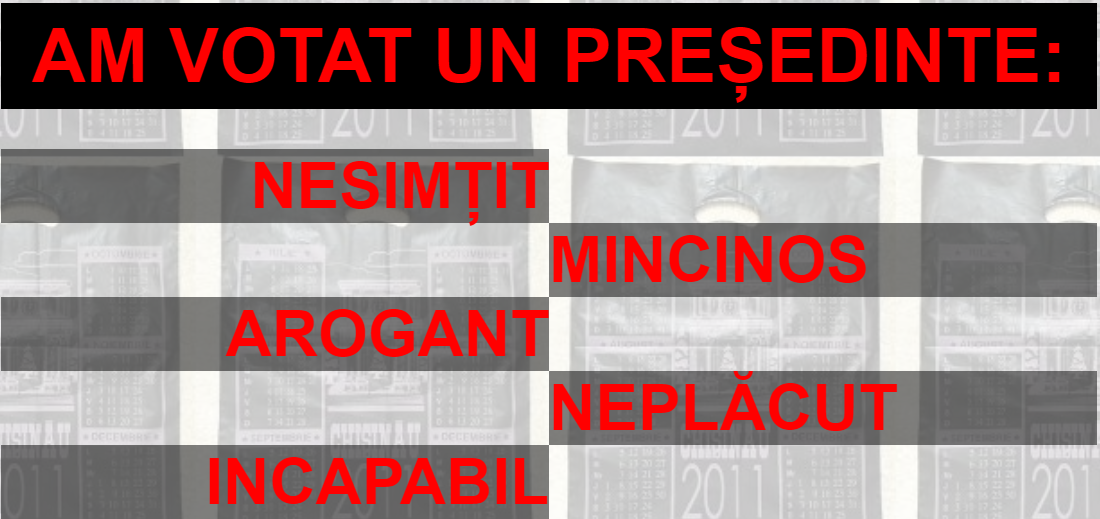
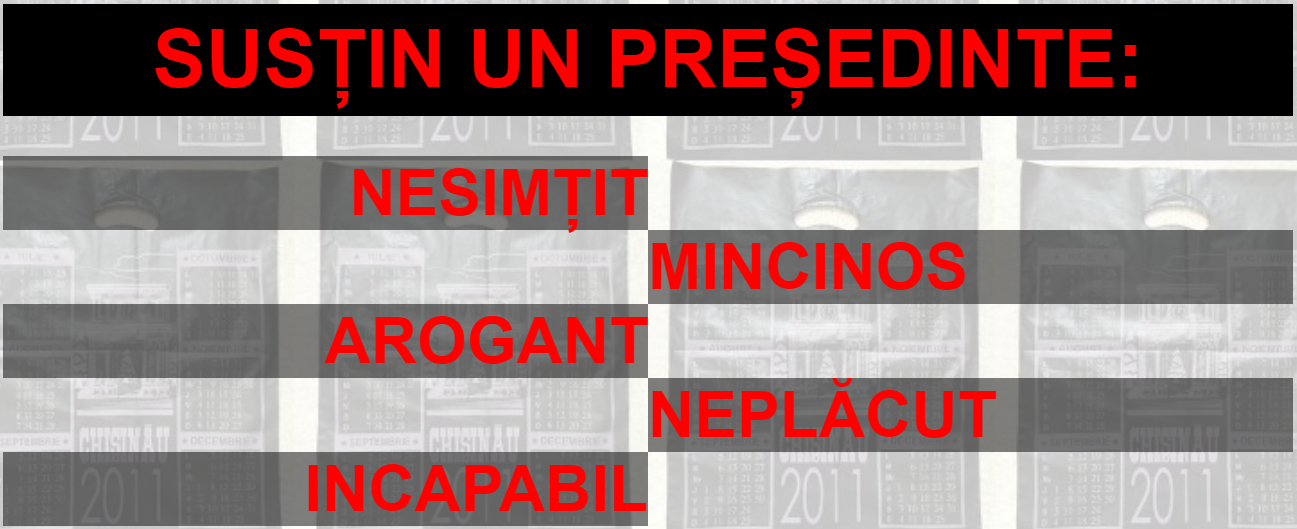
adjust title

diff --git a/index.html b/index.html
@@ -26,42 +26,6 @@
 <body>
     <div class="background">
         <div class="inner-overlay">
-            <div class="attributes one hide">
-                <span class="title one">Ați votat un președinte:</span>
-                <div style="display: flex;">
-                    <div class="left">
-                        <span class="calif-neg">NESIMȚIT</span>
-                        <br>
-                        <span class="calif-neg">AROGANT</span>
-                        <br>
-                        <span class="calif-neg">INCAPABIL</span>
-                    </div>
-                    <div class="right">
-                        <br>
-                        <span class="calif-neg">MINCINOS</span>
-                        <br>
-                        <span class="calif-neg">NEPLĂCUT</span>
-                    </div>
-                </div>
-            </div>
-            <div class="attributes two hide">
-                <span class="title two">Ați votat un președinte:</span>
-                <div style="display: flex;">
-                    <div class="left">
-                        <span class="calif-pos">CAPABIL</span>
-                        <br>
-                        <span class="calif-pos">INTEGRU</span>
-                        <br>
-                        <span class="calif-pos">ONEST</span>
-                    </div>
-                    <div class="right">
-                        <br>
-                        <span class="calif-pos">RESPECTUOS</span>
-                        <br>
-                        <span class="calif-pos">EDUCAT</span>
-                    </div>
-                </div>
-            </div>
             <div class="content">
                 <div class="container-one">
                     <div class="candidate">

diff --git a/pas.html b/pas.html
@@ -4,7 +4,7 @@
 <head>
     <title>SANDU MAIA - "PARTIDUL ACȚIUNE ȘI SOLIDARITATE"</title>
     <meta name="viewport" content="width=1024">
-    <meta name="description" content="Eu aleg să votez un președinte: capabil, integru, onest, respectuos, educat!">
+    <meta name="description" content="Eu susțin un președinte: capabil, integru, onest, respectuos, educat!">
     <meta property="og:image" content="https://votez.life/images/pas_share.png">
     <meta property="og:image:type" content="image/png">
     <meta property="og:image:width" content="1024">

diff --git a/dodonigor.html b/dodonigor.html
@@ -5,7 +5,7 @@
     <title>IGOR DODON - CANDIDAT INDEPENDENT</title>
     <meta name="viewport" content="width=1024">
     <meta name="description"
-        content="Eu aleg să votez un președinte: nesimțit, arogant, incapabil, mincinos, neplacut!">
+        content="Eu susțin un președinte: nesimțit, arogant, incapabil, mincinos, neplacut!">
     <meta property="og:image" content="https://votez.life/images/dodonigor_share.png">
     <meta property="og:image:type" content="image/png">
     <meta property="og:image:width" content="1024">
